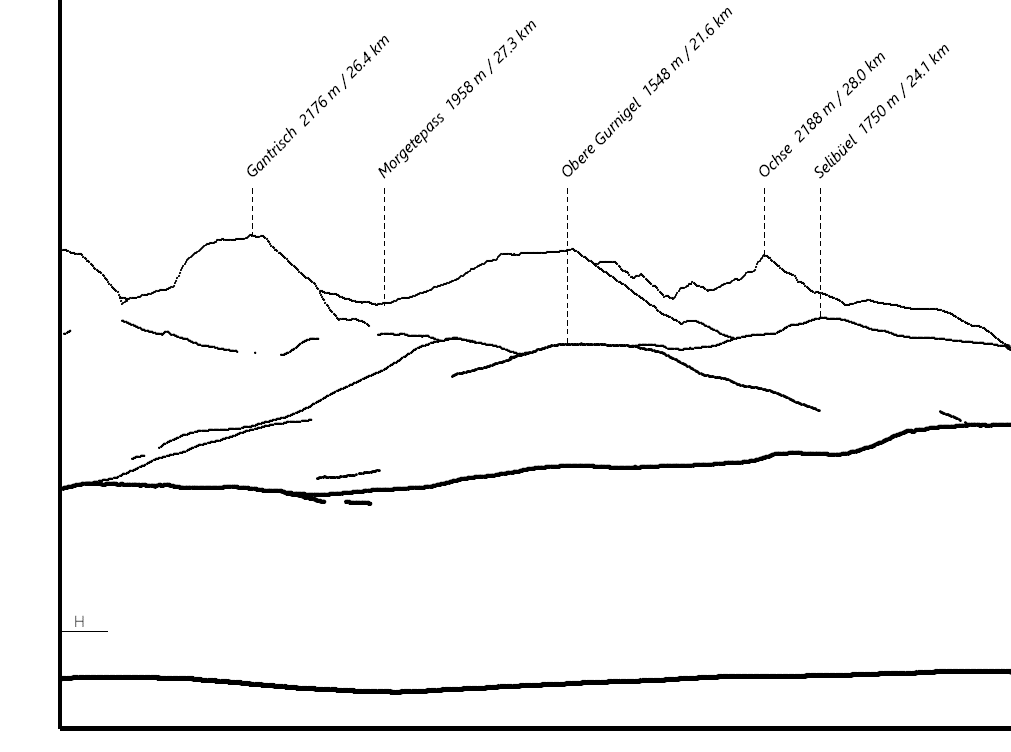
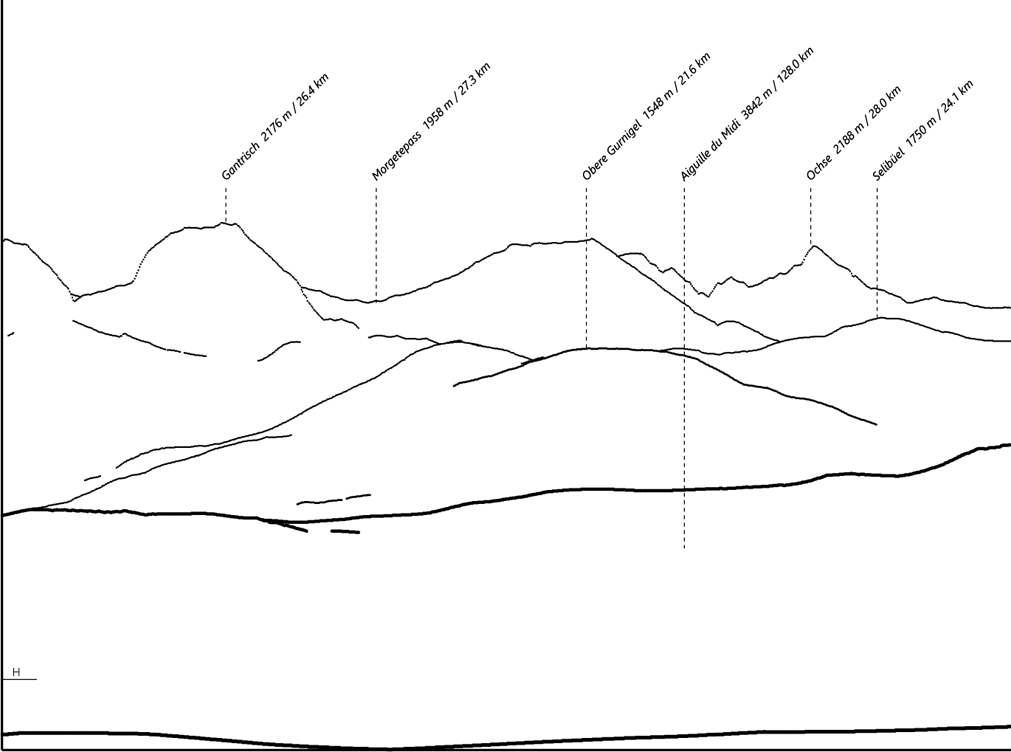
modify skyplot2pano Documentation

diff --git a/dok/skyplot2pano.html b/dok/skyplot2pano.html
@@ -27,8 +27,8 @@
 		<div class="box">
 			<h1>skyplot2pano – Dokumentation</h1>
 			<p>Adrian Böhlen<br />
-			Dokumentation: Version 1.10 vom 19.01.2025<br />
-			Applikation: Version 2.1 vom 08.01.2025</p>
+			Dokumentation: Version 1.11 vom 25.04.2025<br />
+			Applikation: Version 2.2 vom 25.04.2025</p>
 			
 			<h2>Inhalt</h2>
 			<div class="Reihe_zw">
@@ -594,15 +594,16 @@ Entferntester: 640238  154256  4005  243.8  208.300   4060.6  2993
 
 			<a name="nam_file"></a>
 			<h3>1.5.2&nbsp;&nbsp;Namendatei</h3>
-			<p>Für die Namendatei wird die gleiche Struktur vorausgesetzt, wie bei der Verwendung in SCOP.PER. Falls nicht vorhanden, lässt sich diese auf einfache Weise z.B. aus einer kommagetrennten Datei ableiten. Relevant für diese Anwendung sind nur die Felder Name, X-, Y- und Z-Koordinate. Die Felder Priorität und Perimeter werden für diese Anwendung nicht verwendet. Die genaue Definition ist in der Dokumentation von SCOP.PER wie folgt beschrieben: <script type="text/javascript">var name="an"; var kap=""; verweis("dokSky");</script></p>
+			<p>Für die Namendatei wird die gleiche Struktur vorausgesetzt, wie bei der Verwendung in SCOP.PER. Falls nicht vorhanden, lässt sich diese auf einfache Weise z.B. aus einer kommagetrennten Datei ableiten. Relevant für diese Anwendung sind nur die Felder Name, X-, Y- und Z-Koordinate sowie die Priorität. Das Feld Perimeter wird nicht verwendet. Die genaue Definition ist in der Dokumentation von SCOP.PER wie folgt beschrieben: <script type="text/javascript">var name="an"; var kap=""; verweis("dokSky");</script></p>
 			<p><em>Dieser Parameter ermöglicht die Angabe des Namens jener Datei, auf der die Namensinformation vorbereitet ist. Diese Infomation besteht aus dem Namen selbst, seiner Position (X,Y,Z), der Priorität und dem Perimeter. Der Perimeter wird entweder als Radius eines Kreises oder als Umringpolygon (max. 32 Punkte X,Y) angegeben. Der Wertebereich für die Priorität liegt zwischen 1 und 99. Der Name, die Position und die Priorität müssen dem Fortran-Format (A32,3F12.2,I4) genügen; die Formatierung für den Perimeter ist frei.</em></p>
+			<p>Im Feld Priorität hat lediglich der Wert 99 eine besondere Bedeutung. Namen, die mit diesem Wert gekennzeichnet sind, werden später auf dem Panorama immer abgebildet, egal ob sichtbar oder nicht. Voraussetzung ist natürlich, dass sie innerhalb des gewählten Sektors liegen.</p>
 			<p>Nachstehend ein Beispiel:</p>
 			<code>
 Morgenberghorn                      627184.0    163500.0      2249.0  28  200.
 Gros Brun / Schopfenspitz           585609.0    163489.0      2104.0  28  200.
 Wannichnubel                        632287.0    172655.0      1585.0  46  200.
 Sertigpass                          787091.0    172878.0      2739.0  24  200.
-Piz Radun / Plangghora              740662.0    172837.0      2581.0  28  200.
+Aiguille du Midi                    557199.0     80943.0      3842.0  99  200.
 Piz Nair                            697156.0    172757.0      3059.0  28  200.
 Tschingel                           653676.0    172736.0      2326.0  46  200.
 Homad                               604262.0    172675.0      2076.0  46  200.
@@ -681,13 +682,13 @@ Sustenhorn                          677742.0    172472.0      3502.0  37  200.
 
 			<div class="Reihe">
 				<div class="Zelle_norm">
-					<img width="320px" height="185px" alt="Pano mit Rahmen rechts erweitert" onclick="show('./img/rahmen_rechts_erw_1260x732.png');" src="./img/rahmen_rechts_erw_320x186.png" />
+					<img width="320px" height="185px" alt="Pano mit Rahmen rechts erweitert" onclick="show('./img/rahmen_rechts_erw_1260x732.png');" src="./img/rahmen_rechts_erw_1260x732.png" />
 				<p class="Bildlegende">Abb.&nbsp;11:&nbsp;Panorama-Ansicht mit Namen bis fast zum rechten Bildrand (Hohe Möhr Richtung Alpen). Der Rahmen wird daher automatisch nach rechts erweitert.<br />Eigener Screenshot aus ArcView vom 18.09.2024</p>
 				</div>
 				<div class="Zelle_zw">
 				</div>
 				<div class="Zelle_norm">
-					<img width="320px" height="185px" alt="Pano mit Horizont oberhalb Bild" onclick="show('./img/horizont_ausserhalb_1260x732.png');" src="./img/horizont_ausserhalb_320x186.png" />
+					<img width="320px" height="185px" alt="Pano mit Horizont oberhalb Bild" onclick="show('./img/horizont_ausserhalb_1260x732.png');" src="./img/horizont_ausserhalb_1260x732.png" />
 					<p class="Bildlegende">Abb.&nbsp;12:&nbsp;Panorama-Ansicht aus sehr grosser Höhe (Großer Inselsberg plus 8000&nbsp;m Richtung Alpen). Daher liegen alle abgebildeten Punkte deutlich unter dem mathematischen Horizont, der entsprechend oberhalb des Bildes angezeigt wird.<br />Eigener Screenshot aus ArcView vom 18.09.2024</p>
 				</div>
 			</div>
@@ -782,7 +783,7 @@ mv sil_* $dir
 			<a name="komb"></a>
 			<h3>2.6.2&nbsp;&nbsp;Kombination mit einer Fotografie</h3>
 			<div class="Bild_l">
-				<img width="320px" height="163px" alt="Ueberlagerung mit Bild" onclick="show('./img/ueberlagerung_foto_800x408.jpg');" src="./img/ueberlagerung_foto_320x163.jpg" />
+				<img width="320px" height="163px" alt="Ueberlagerung mit Bild" onclick="show('./img/ueberlagerung_foto_800x408.jpg');" src="./img/ueberlagerung_foto_800x408.jpg" />
 				<p class="Bildlegende">Abb.&nbsp;13:&nbsp;Überlagerung der Silhouettendarstellung mit einer Fotografie (Gantrischweg Richtung Gantrisch).<br />Eigener Screenshot aus ArcView vom 09.03.2024 unter Verwendung einer eigenen Aufnahme vom 13.12.2021</p>
 			</div>
 			
@@ -808,7 +809,7 @@ mv sil_* $dir
 			<a name="grundr"></a>
 			<h3>2.6.4&nbsp;&nbsp;Anzeige im Grundriss</h3>
 			<div class="Bild_l">
-				<img width="320px" height="162px" alt="Anzeige Grundriss" onclick="show('./img/anzeige_grundriss_1127x572.png');" src="./img/anzeige_grundriss_320x162.png" />
+				<img width="320px" height="162px" alt="Anzeige Grundriss" onclick="show('./img/anzeige_grundriss_1127x572.png');" src="./img/anzeige_grundriss_1127x572.png" />
 				<p class="Bildlegende">Abb.&nbsp;16:&nbsp;Anzeige der Silhouetten im Grundriss<br />Eigener Screenshot aus ArcView vom 10.03.2024</p>
 			</div>
 			<p>Nebst der Panorama-Ansicht, welche einem Seitenriss entspricht, ist es auch möglich, sich die berechnete Datei im Grundriss anzeigen zu lassen. Das Vorgehen ist grundsätzlich identisch, mit dem Unterschied dass beim Import ins GIS als Quelle für die X-Achse im Bildkoordinatensystem das Attribut <em>LageX</em> und für die Y-Achse das Feld <em>LageY</em> festgelegt werden muss. Mit einer passenden Karte im Hintergrund lassen sich die Punkte dann gut visualisieren, allerdings darf man nicht etwa erwarten, eine Art Sichtbarkeitskarte zu erhalten. Dies ist mit der Methode, mit der SCOP.SKYPLOT arbeitet nicht möglich, da damit keine Flächen, sondern nur sichtbegrenzende Kreten erfasst werden. Wie Abb.&nbsp;16 zeigt, lässt sich die Auflösung des verwendeten Höhenmodells auf diese Weise gut erkennen, da sie dem Abstand zwischen den sichtbegrenzenden Punkten in Bezug auf das Projektionszentrum entspricht; im vorliegenden Fall 25 m.</p>
@@ -836,7 +837,8 @@ mv sil_* $dir
 
 			<a name="namen"></a>
 			<h3>2.6.7&nbsp;&nbsp;Erzeugen der automatischen Beschriftung</h3>
-			<p>Wie im Abschnitt 1.5 erläutert, besteht die Möglichkeit, die auf dem Panorama sichtbaren Gipfel automatisch beschriften zu lassen. Diese Option ist allerdings noch nicht sehr ausgereift, weshalb das Ergebnis möglicherweise den Erwartungen nicht entspricht. Dazu ist als 13.&nbsp;Argument die als Grundlage zu verwendende Namendatei aufzuführen und als 14.&nbsp;Argument die Lagetoleranz in m. Welcher Wert hier ideal ist, hängt von verschiedenen Parametern ab und muss im Einzelfall durch Probieren herausgefunden werden. Bei Sichtweiten unter 100&nbsp;km und einem gut aufgelösten Höhenmodell lassen sich mit 50&nbsp;–&nbsp;100&nbsp;m im Normalfall gute Ergebnisse erzielen. Grundsätzlich ist es sehr wichtig, dass für ein gutes Resultat die azimutale Auflösung möglichst klein sein sollte, insbesondere bei grosser Distanz zu den abgebildeten Gipfeln, da es ansonsten gut möglich ist, dass die höchsten Punkte durch die Maschen fallen und so auch keine Übereinstimmung mit der Namensinformation gefunden werden kann, d.h. die betreffenden Namen dann fehlen, obwohl die Gipfel sichtbar wären. Die Toleranz sollte also bei insgesamt grossen Distanzen höher gewählt werden (100&nbsp;–&nbsp;500&nbsp;m), was natürlich das Risiko mit sich bringt, dass mitunter «falsche», d.h. gar nicht sichtbare Namen erwischt und dann ebenfalls angezeigt werden. Allerdings muss der Toleranzwert immer kleiner sein als die Hälfte von Aufloes-Dist (12.&nbsp;Argument), da ansonsten ein Name bei mehreren Berechnungen als sichtbar detektiert werden kann und dann mehrfach im Panorama auftaucht.</p>
+			<p>Wie im Abschnitt 1.5 erläutert, besteht die Möglichkeit, die auf dem Panorama sichtbaren Gipfel automatisch beschriften, bzw. mit Priorität 99 gekennzeichnete Namen erzwungen darstellen zu lassen. Diese Option ist allerdings noch nicht sehr ausgereift, weshalb das Ergebnis möglicherweise den Erwartungen nicht entspricht. Dazu ist als 13.&nbsp;Argument die als Grundlage zu verwendende Namendatei aufzuführen und als 14.&nbsp;Argument die Lagetoleranz in m. Welcher Wert hier ideal ist, hängt von verschiedenen Parametern ab und muss im Einzelfall durch Probieren herausgefunden werden. Bei Sichtweiten unter 100&nbsp;km und einem gut aufgelösten Höhenmodell lassen sich mit 50&nbsp;–&nbsp;100&nbsp;m im Normalfall gute Ergebnisse erzielen. Grundsätzlich ist es sehr wichtig, dass für ein gutes Resultat die azimutale Auflösung möglichst klein sein sollte, insbesondere bei grosser Distanz zu den abgebildeten Gipfeln, da es ansonsten gut möglich ist, dass die höchsten Punkte durch die Maschen fallen und so auch keine Übereinstimmung mit der Namensinformation gefunden werden kann, d.h. die betreffenden Namen dann fehlen, obwohl die Gipfel sichtbar wären. Die Toleranz sollte also bei insgesamt grossen Distanzen höher gewählt werden (100&nbsp;–&nbsp;500&nbsp;m), was natürlich das Risiko mit sich bringt, dass mitunter «falsche», d.h. gar nicht sichtbare Namen erwischt und dann ebenfalls angezeigt werden. Allerdings muss der Toleranzwert immer kleiner sein als die Hälfte von Aufloes-Dist (12.&nbsp;Argument), da ansonsten ein Name bei mehreren Berechnungen als sichtbar detektiert werden kann und dann mehrfach im Panorama auftaucht.</p>
+			<p></p>
 			<div class="Bild_l">
 				<img width="320px" height="137px" alt="DXF laden" onclick="show('./img/add_dxf_483x206.png');" src="./img/add_dxf_483x206.png" />
 				<p class="Bildlegende">Abb.&nbsp;19:&nbsp;Laden der Linien- und Textinformation einer DXF-Datei.<br />Eigener Screenshot aus ArcView vom 21.04.2024</p>
@@ -849,14 +851,14 @@ mv sil_* $dir
 			<p>Die auf diese Weise geladene DXF-Datei erscheint in Form von 2 Ebenen in der Liste der geladenen Daten. Für die Darstellung ist es am sinnvollsten, eine Klassifizierung nach dem Attribut <em>Layer</em> vorzunehmen, wie in Abb.&nbsp;20 gezeigt. Für den Rahmen lässt sich dann z.B. eine breite Linie definieren, für den Horizont eine feine und für die Zuordnungslinie eine strichlierte. So kann sich ein Ergebnis wie in Abb.&nbsp;21 realisiert werden. Auch die Textobjekte können auf diese Weise unterschiedlich dargestellt werden, wobei sich lediglich die Schriftart und Farbe einstellen lässt, nicht jedoch die Schriftgrösse.</p>
 			<div class="Reihe">
 				<div class="Zelle_norm">
-					<img width="320px" height="238px" alt="Pano mit Rahmen rechts erweitert" onclick="show('./img/dxf_layer_625x473.png');" src="./img/dxf_layer_320x238.png" />
+					<img width="320px" height="238px" alt="Klassifizierung DXF-Attribute" onclick="show('./img/dxf_layer_625x473.png');" src="./img/dxf_layer_625x473.png" />
 				<p class="Bildlegende">Abb.&nbsp;20:&nbsp;Klassifizierung der DXF-Linien nach dem Attribut <em>Layer</em>.<br />Eigener Screenshot aus ArcView vom 19.09.2024</p>
 				</div>
 				<div class="Zelle_zw">
 				</div>
 				<div class="Zelle_norm">
-					<img width="320px" height="238px" alt="Pano mit Horizont oberhalb Bild" onclick="show('./img/dxf_darstellung_1011x752.png');" src="./img/dxf_darstellung_320x238.png" />
-					<p class="Bildlegende">Abb.&nbsp;21:&nbsp;Unterschiedliche Darstellung der verschiedenen Linientypen sowie der Beschriftung.<br />Eigener Export aus ArcView vom 19.09.2024</p>
+					<img width="320px" height="238px" alt="Linie und Text symbolisiert" onclick="show('./img/dxf_darstellung_1011x752.png');" src="./img/dxf_darstellung_1011x752.png" />
+					<p class="Bildlegende">Abb.&nbsp;21:&nbsp;Unterschiedliche Darstellung der verschiedenen Linientypen sowie der Beschriftung.<br />Aiguille du Midi ist ein nicht sichtbarer Gipfel, der in der Namendatei mit der Priorität 99 gekennzeichnet wurde (siehe Tab.&nbsp;6).<br />Eigener Export aus ArcView vom 25.04.2025</p>
 				</div>
 			</div>
 
